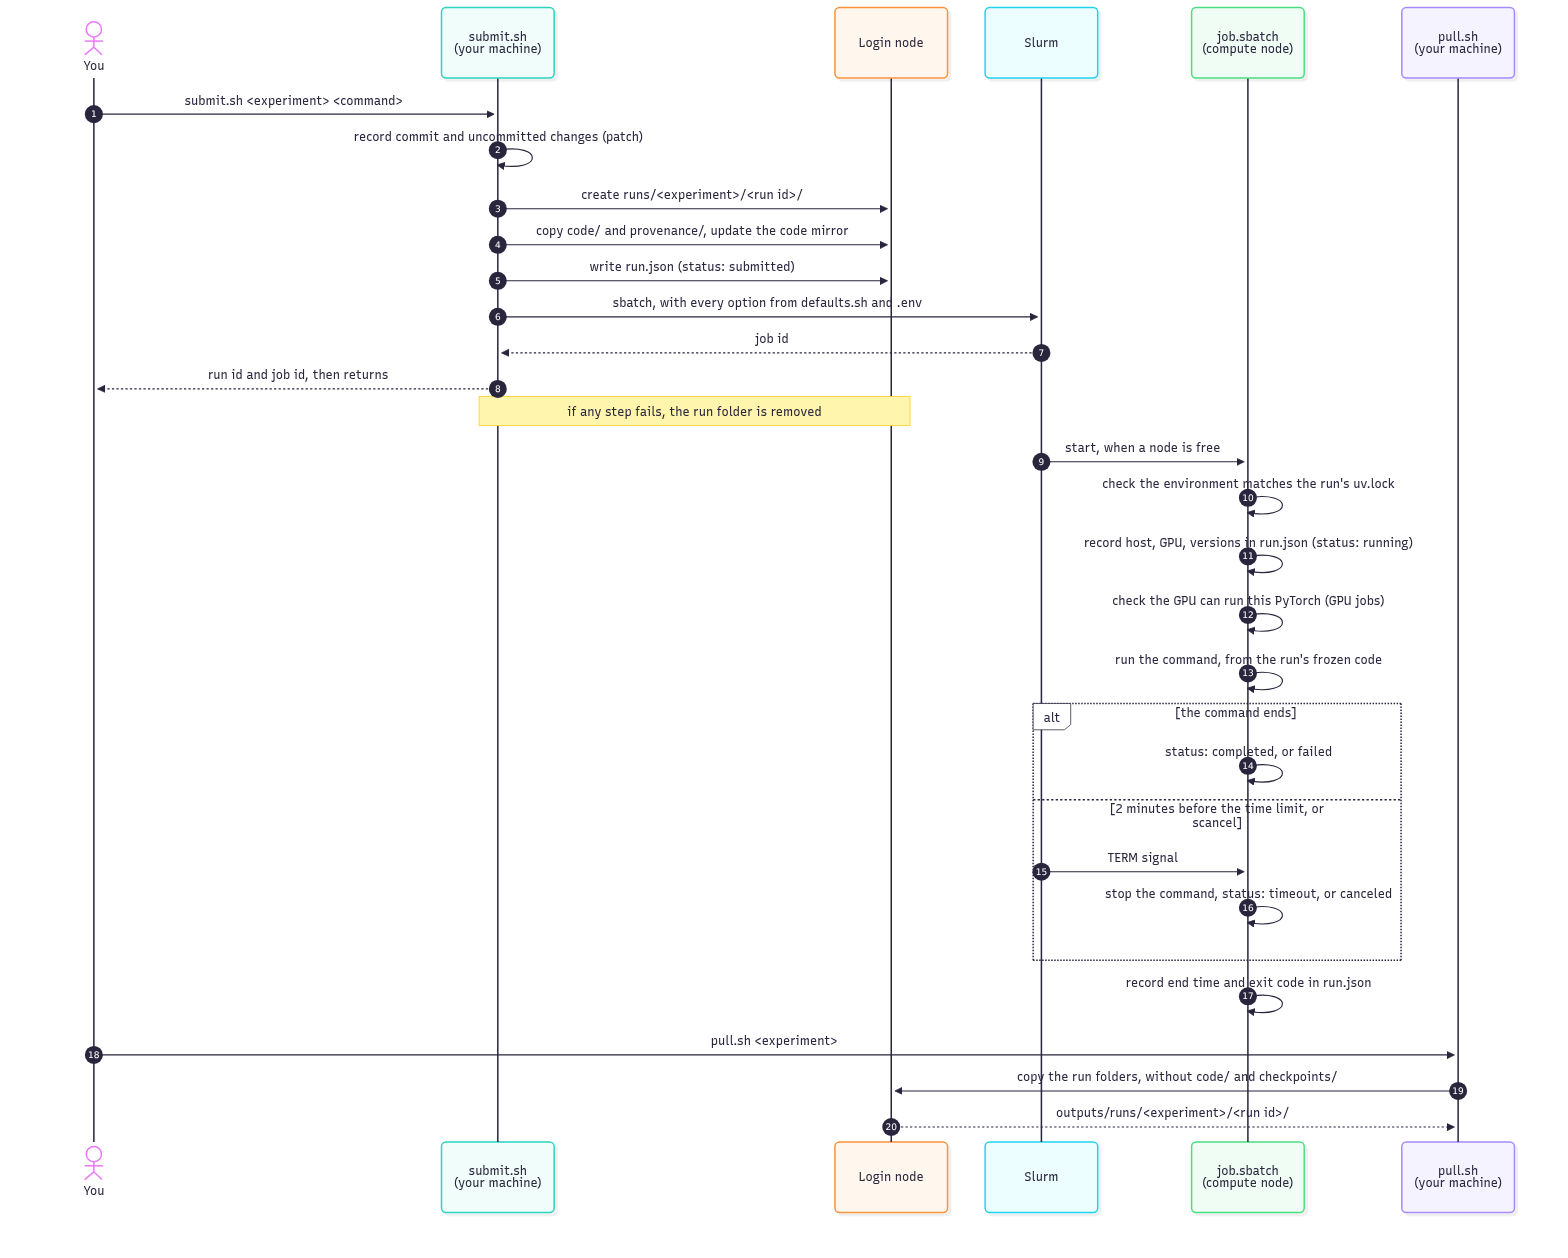
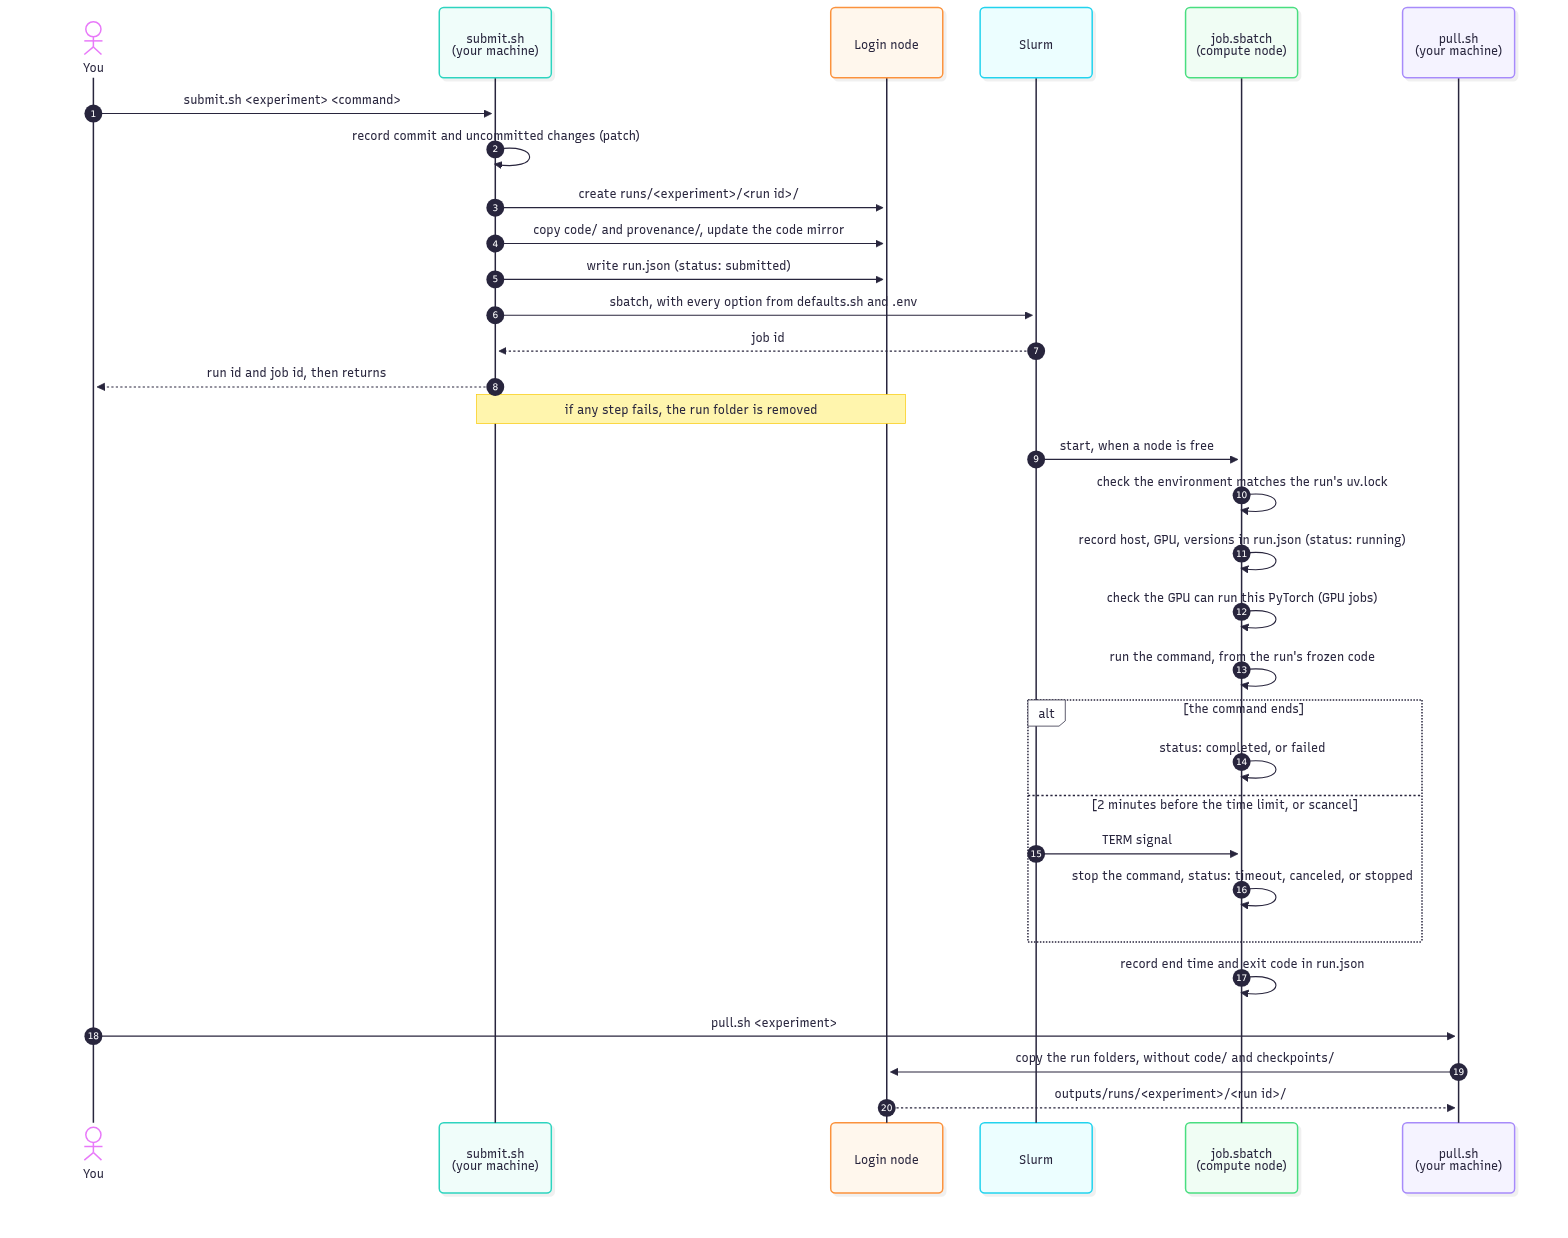
docs(diagrams): add six diagrams and update two

diff --git a/docs/project/diagrams/README.md b/docs/project/diagrams/README.md
@@ -12,8 +12,14 @@ Why this format and renderer: [PD-028](../decisions/PD-028-diagrams.md).
 
 | Diagram | What it shows | Shown in |
 |---|---|---|
+| [repository-map](repository-map.mmd) | The repository's folders, what each holds, and where to start reading | [docs/README.md](../../README.md#contents) |
 | [machines-and-storage](machines-and-storage.mmd) | Your machine and the cluster: partitions, storage areas, and which script moves what where | [running.md](../running.md#the-model-local-first) |
-| [cluster-run](cluster-run.mmd) | One cluster run, from `submit.sh` to the pulled results, with how its end is recorded | [running.md](../running.md) |
+| [local-run](local-run.mmd) | A recorded local run with `run_local.sh`, and how a quick try or a debug session differs | [running.md](../running.md#running-locally) |
+| [cluster-run](cluster-run.mmd) | One cluster run, from `submit.sh` to the pulled results, with how its end is recorded | [running.md](../running.md#the-cycle) |
+| [environment-build](environment-build.mmd) | How `setup_remote.sh` builds the cluster environment, and how every job checks it | [running.md](../running.md#the-cluster-environment) |
+| [run-statuses](run-statuses.mmd) | The statuses in `run.json`, and what moves a run from one to the next | [runs.md](../runs.md#how-a-run-ended-status) |
+| [questions-and-decisions](questions-and-decisions.mmd) | How a question becomes a decision, and how a decision changes over time | [decisions/README.md](../decisions/README.md#rules) |
+| [expert-review](expert-review.mmd) | The expert-review skill: reviewers, mechanical checks, verification, the guard | [.claude/README.md](../../../.claude/README.md#the-expert-review-in-short) |
 
 ## Keeping them accurate
 
